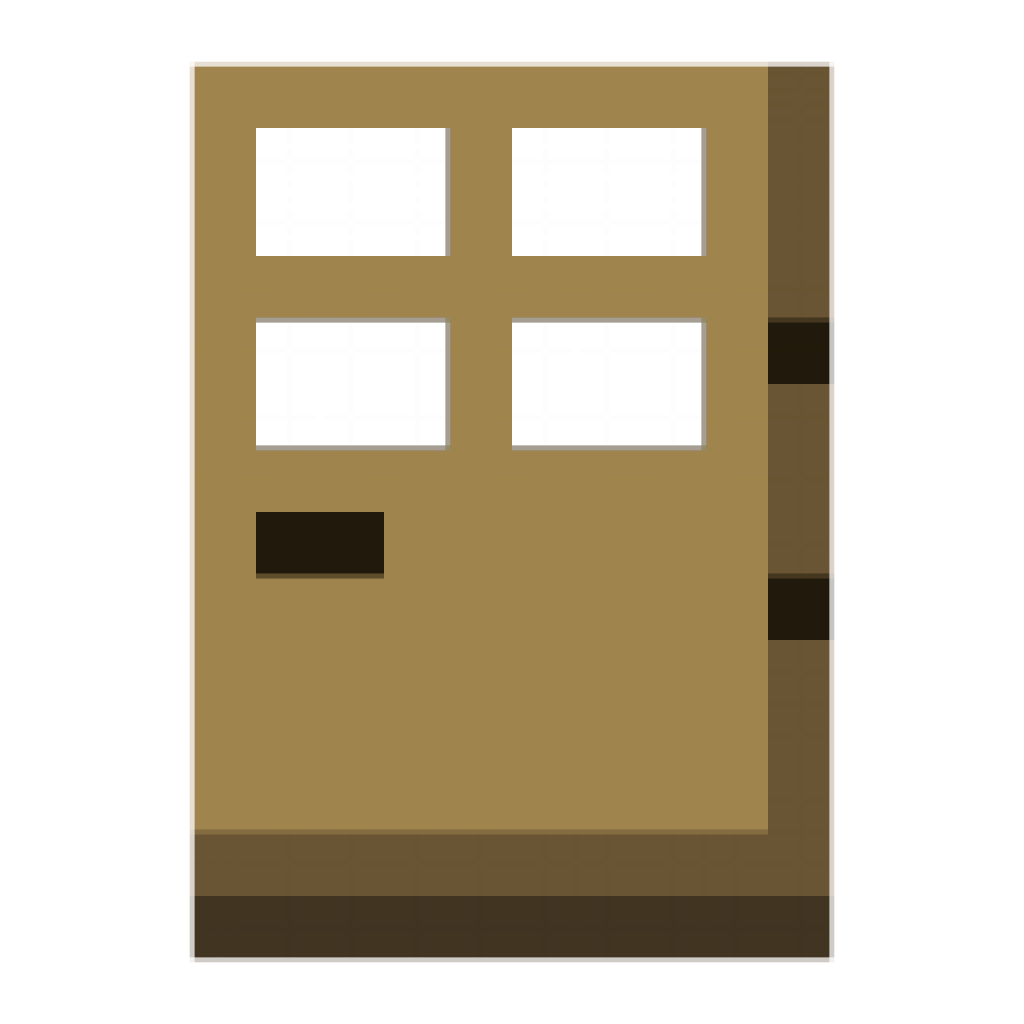
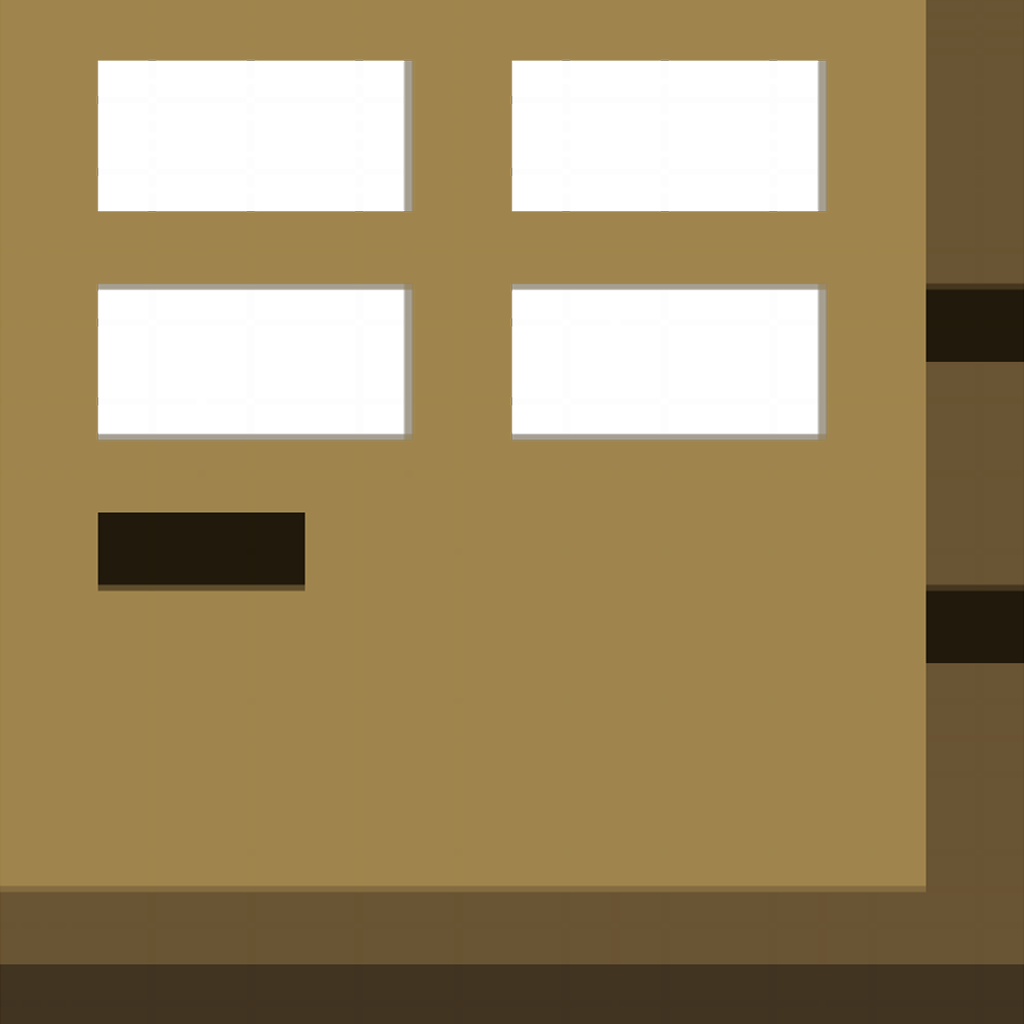
replace center pins at dot

diff --git a/Pyaterochka/Game/GameView.cs b/Pyaterochka/Game/GameView.cs
@@ -42,7 +42,12 @@ namespace Pyaterochka
             {
                 for (int x = 0; x < GameMap.Map.GetLength(1); x++)
                 {
-                    var pos = new Rectangle(x * tileSize, y * tileSize, tileSize, tileSize);
+                    var pos = new Rectangle(
+                        x * tileSize - tileSize / 2,  // Смещение по X
+                        y * tileSize - tileSize / 2,  // Смещение по Y
+                        tileSize, 
+                        tileSize
+                    );
                     switch (GameMap.Map[y, x])
                     {
                         case 0:
@@ -58,14 +63,27 @@ namespace Pyaterochka
                 }
             }
             
-            spriteBatch.Draw(playerTexture, new Rectangle((int)model.Player.Position.X, (int)model.Player.Position.Y, model.Player.HitBox, model.Player.HitBox), Color.White);
+            spriteBatch.Draw(
+                playerTexture,
+                new Rectangle(
+                    (int)model.Player.Position.X - model.Player.HitBox / 2,
+                    (int)model.Player.Position.Y - model.Player.HitBox / 2,
+                    model.Player.HitBox,
+                    model.Player.HitBox
+                ),
+                Color.White
+            );
             foreach (var buyer in model.Buyers)
             {
                 if (!buyer.IsBanned)
                     switch (buyer)
                     {
                         case Boozer:
-                            spriteBatch.Draw(boozerTexture, new Rectangle((int)buyer.Position.X, (int)buyer.Position.Y, buyer.HitBox, buyer.HitBox), Color.White);
+                            spriteBatch.Draw(boozerTexture, new Rectangle(
+                                (int)buyer.Position.X - buyer.HitBox / 2, 
+                                (int)buyer.Position.Y - buyer.HitBox / 2, 
+                                buyer.HitBox, buyer.HitBox), 
+                                Color.White);
                             break;
                         case Babushka:
                             spriteBatch.Draw(babushkaTexture, new Rectangle((int)buyer.Position.X, (int)buyer.Position.Y, buyer.HitBox, buyer.HitBox), Color.White);
@@ -98,6 +116,5 @@ namespace Pyaterochka
                 spriteBatch.Draw(wallTexture, staminaBar, Color.Green);
             }
         }
-
     }
 }

diff --git a/Pyaterochka/Game/Domains/Buyer.cs b/Pyaterochka/Game/Domains/Buyer.cs
@@ -24,8 +24,8 @@ public class Buyer : IBuyer
 
     private bool isEscaping = false;
     private bool hasLeftShop = false;
-    private const int minEscapeTime = 0 * 60;
-    private const int maxEscapeTime = 4 * 60;
+    private const int minEscapeTime = 5 * 60;
+    private const int maxEscapeTime = 15 * 60;
     
     private Vector2 currentTarget;
     private List<Point> pathToDoor = new();
@@ -40,7 +40,7 @@ public class Buyer : IBuyer
     {
         this.player = player;
         Position = startPosition;
-        SnapToGrid(); // Выравниваем позицию на сетке
+        SnapToGrid(); 
         this.isThief = isThief;
 
         if (isThief)
@@ -109,7 +109,7 @@ public class Buyer : IBuyer
             if (direction == Vector2.Zero)
             {
                 var nearestPoint = FindNearestEmptyPoint(map);
-                MoveToTarget(new Vector2(nearestPoint.X * HitBox + HitBox / 2, nearestPoint.Y * HitBox + HitBox / 2));
+                MoveToTarget(PathPointToVector(nearestPoint));
             }
             moveTimer = 0;
         }
@@ -117,11 +117,11 @@ public class Buyer : IBuyer
     
     private bool IsAtCenterOfCell()
     {
-        int gridX = (int)(Position.X / HitBox);
-        int gridY = (int)(Position.Y / HitBox);
+        var gridX = (int)(Position.X / HitBox);
+        var gridY = (int)(Position.Y / HitBox);
 
-        float centerX = gridX * HitBox + HitBox / 2;
-        float centerY = gridY * HitBox + HitBox / 2;
+        var centerX = gridX * HitBox + HitBox / 2;
+        var centerY = gridY * HitBox + HitBox / 2;
 
         return Math.Abs(Position.X - centerX) < 0.1f && Math.Abs(Position.Y - centerY) < 0.1f;
     }
@@ -240,8 +240,8 @@ public class Buyer : IBuyer
                     if (Math.Abs(dx) != radius && Math.Abs(dy) != radius)
                         continue; 
 
-                    int checkX = startX + dx;
-                    int checkY = startY + dy;
+                    var checkX = startX + dx;
+                    var checkY = startY + dy;
 
                     if (checkX >= 0 && checkX < width && checkY >= 0 && checkY < height)
                     {

diff --git a/Pyaterochka/Game/Domains/Map.cs b/Pyaterochka/Game/Domains/Map.cs
@@ -11,7 +11,7 @@ public class GameMap
         {1, 0, 0, 0, 0, 0, 0, 0, 0, 0, 0, 0, 0, 0, 0, 0, 1},
         {1, 0, 0, 0, 0, 0, 0, 0, 0, 0, 0, 0, 0, 0, 0, 0, 1},
         {1, 0, 0, 1, 1, 1, 0, 0, 0, 0, 0, 1, 1, 1, 0, 0, 1},
-        {0, 0, 0, 1, 0, 0, 0, 0, 0, 0, 0, 0, 0, 1, 0, 0, 1},
+        {1, 0, 0, 1, 0, 0, 0, 0, 0, 0, 0, 0, 0, 1, 0, 0, 1},
         {1, 0, 0, 1, 0, 0, 0, 0, 0, 0, 0, 0, 0, 1, 0, 0, 1},
         {1, 0, 0, 0, 0, 0, 1, 1, 1, 1, 1, 0, 0, 0, 0, 0, 1},
         {1, 0, 0, 0, 0, 0, 0, 0, 0, 0, 0, 0, 0, 0, 0, 0, 1},
